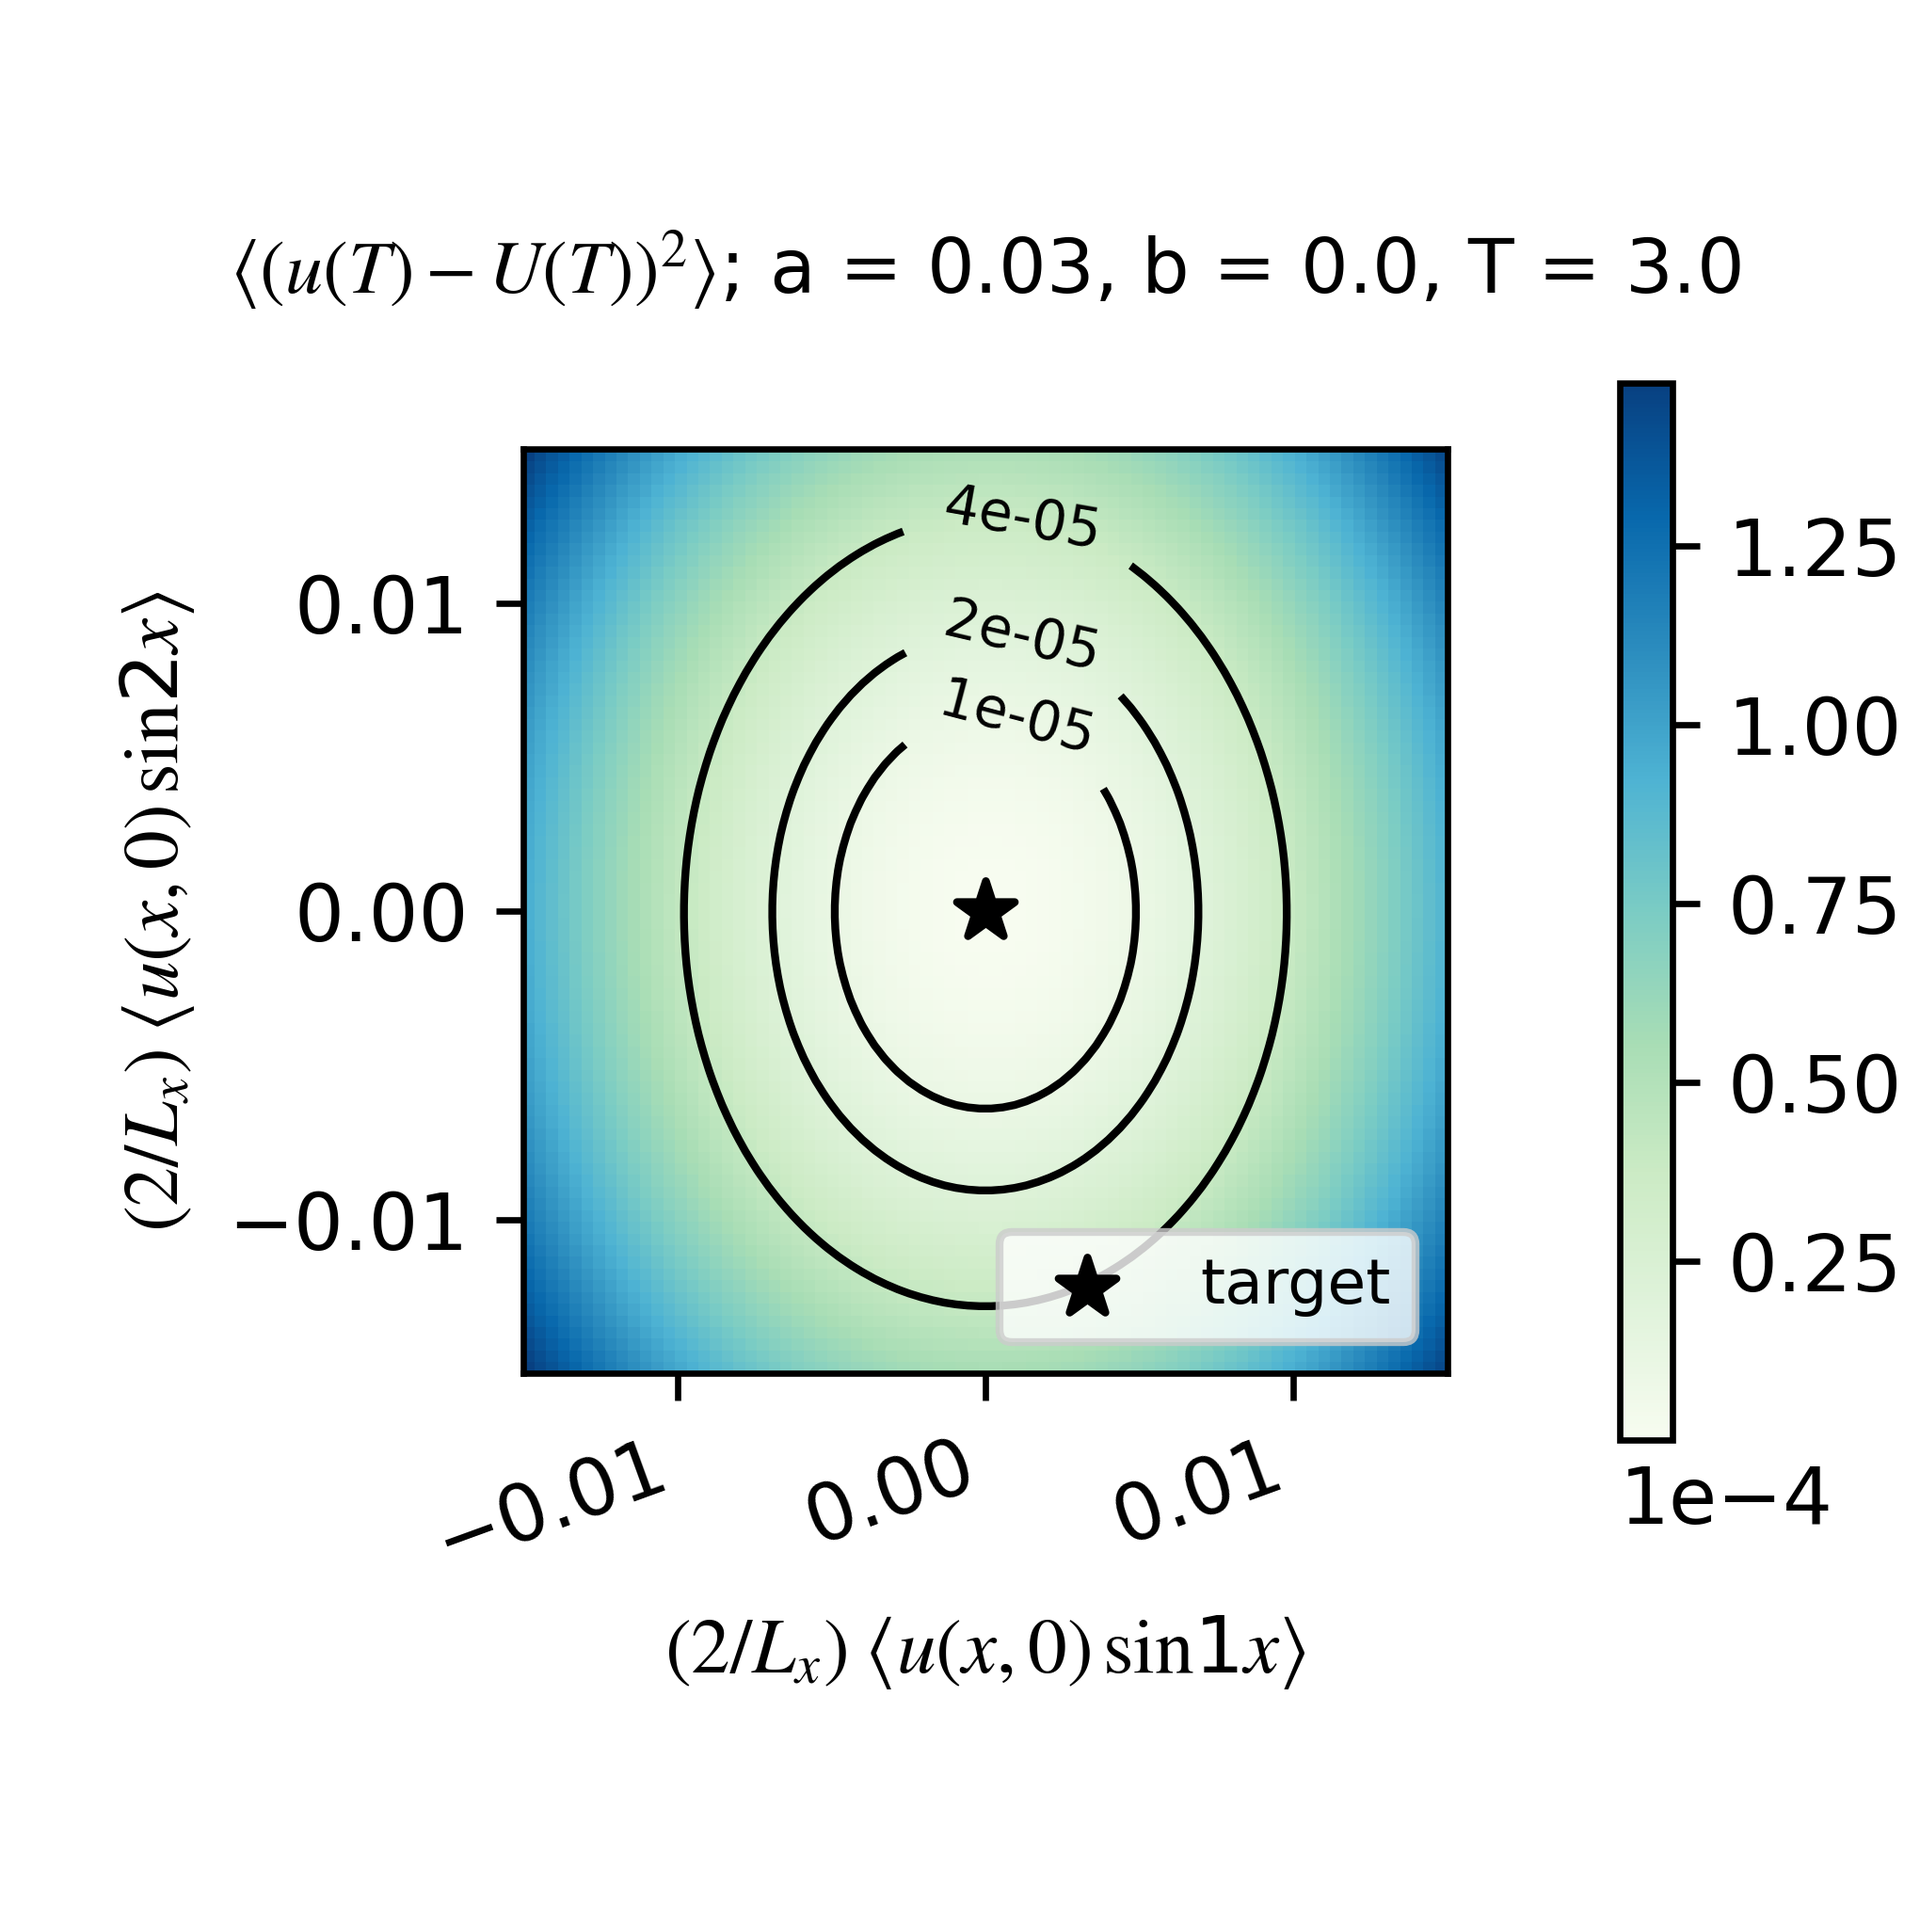
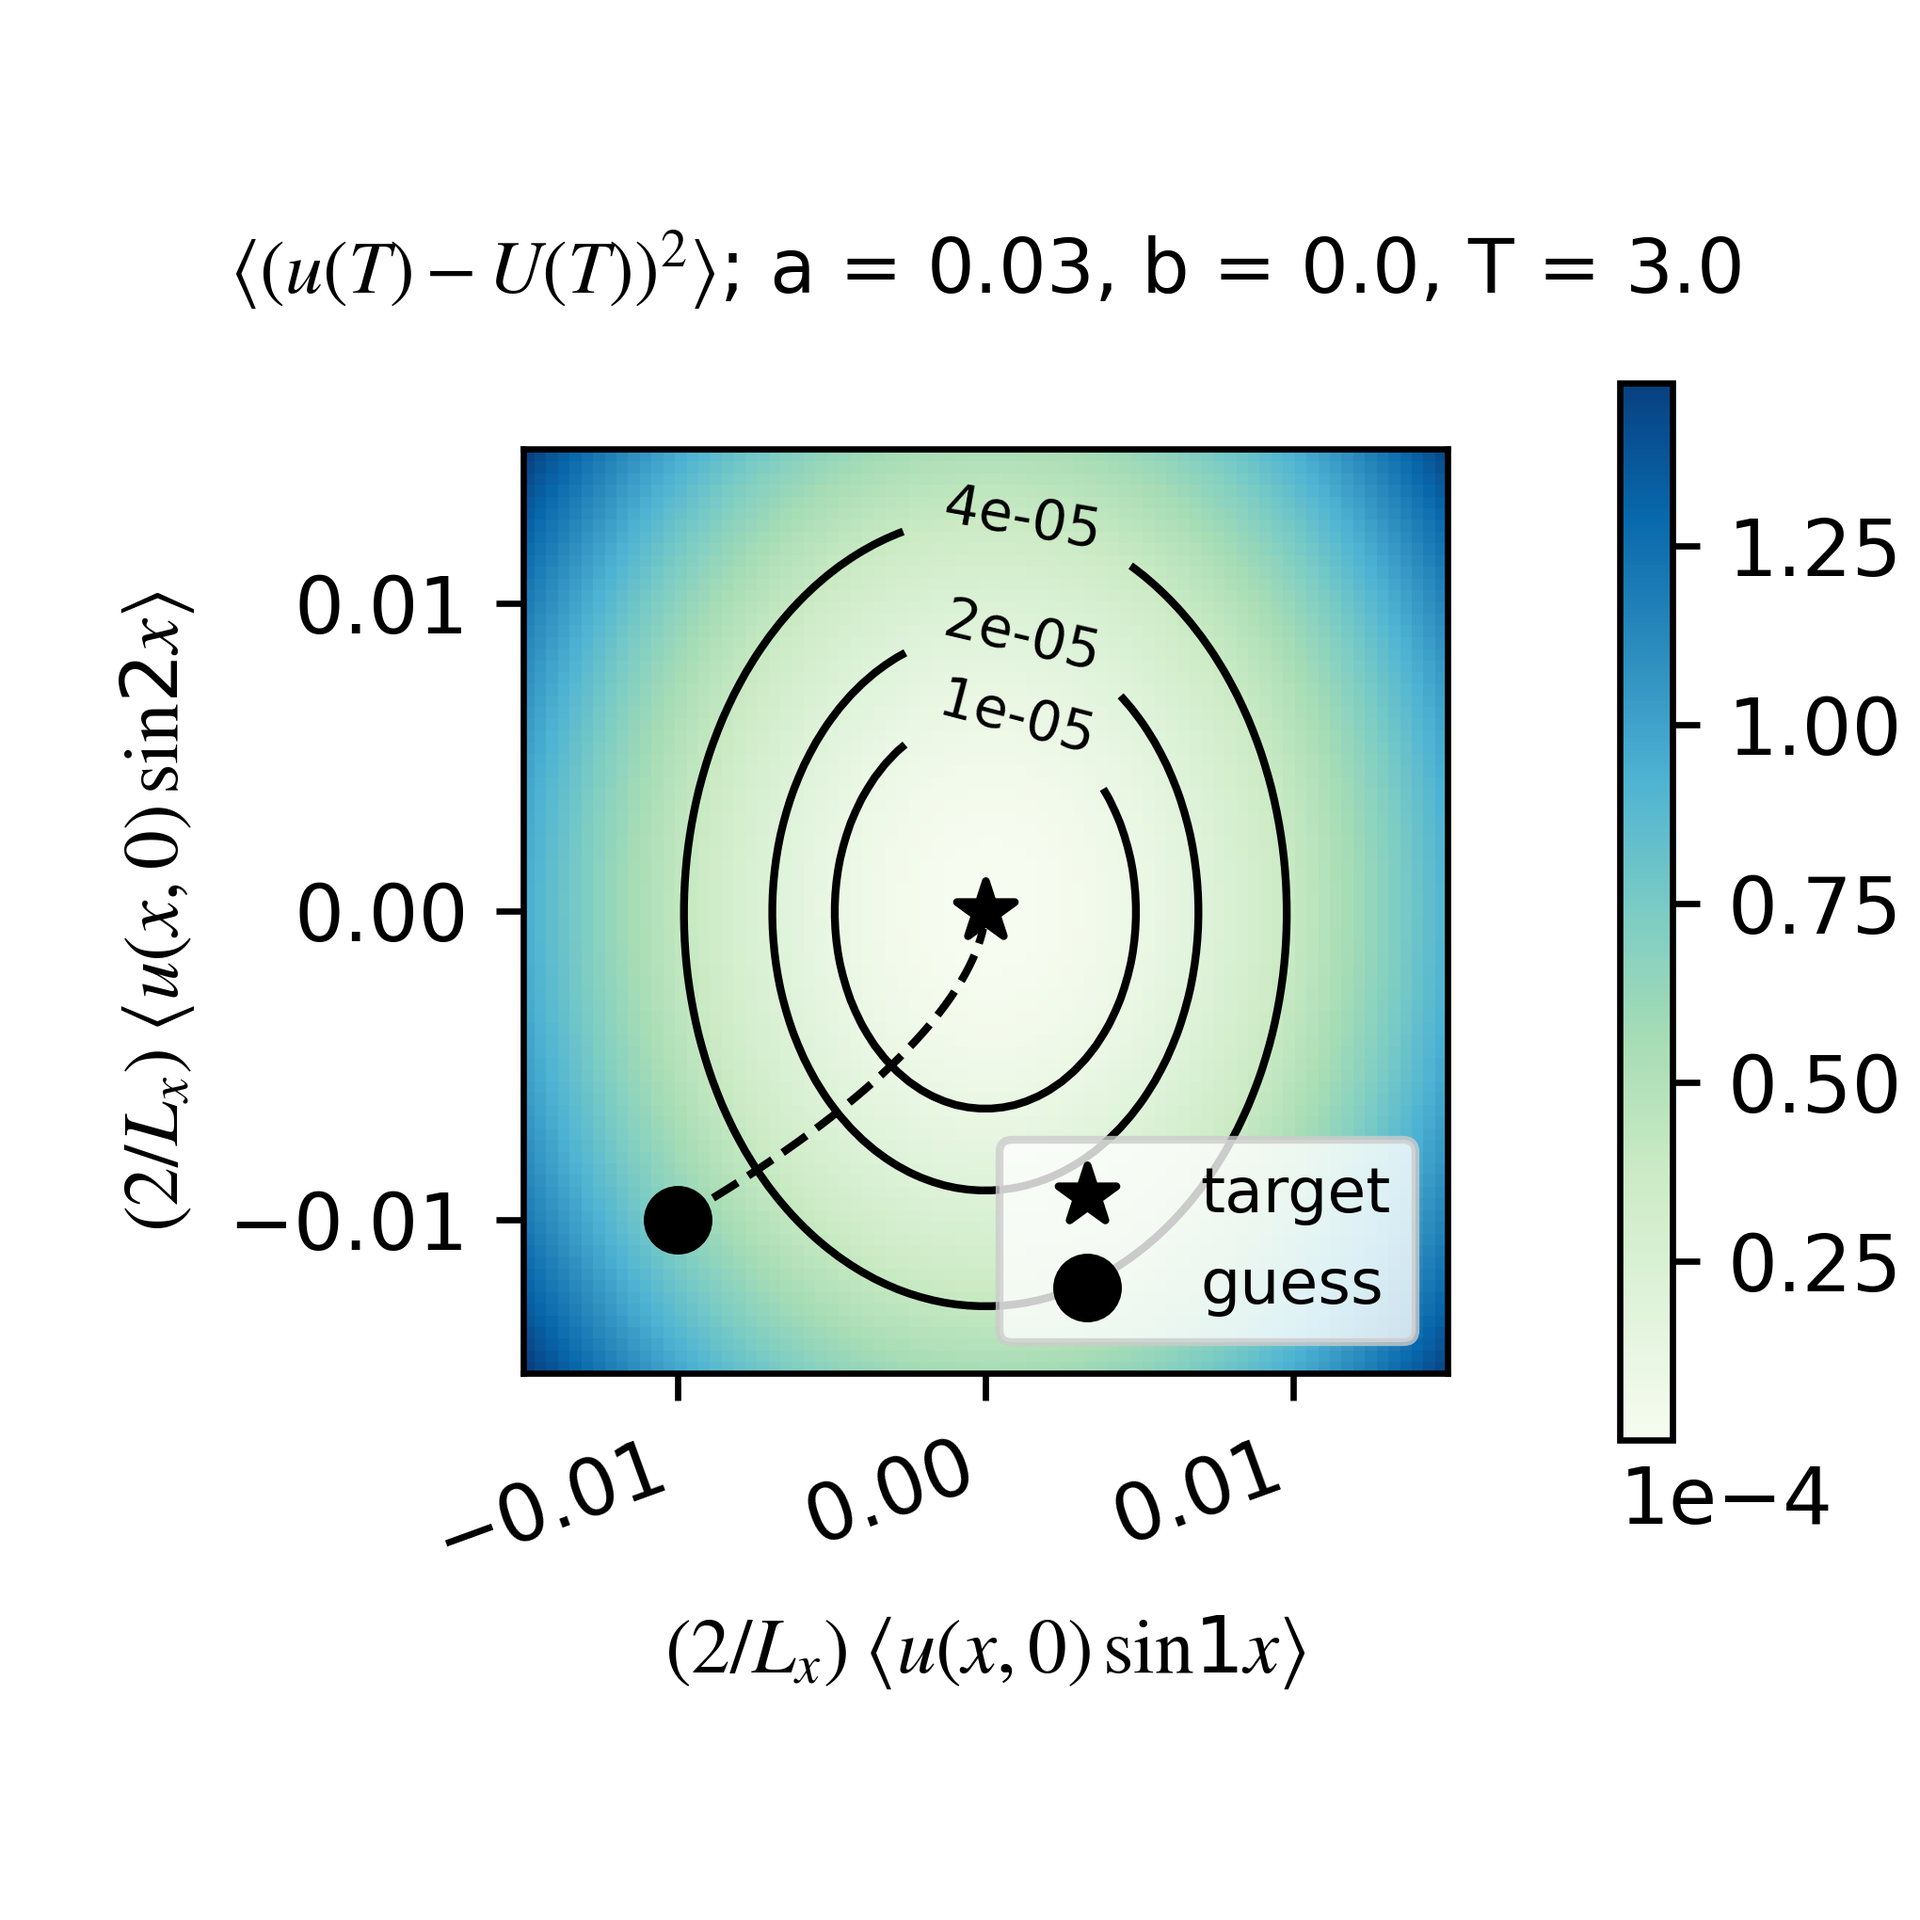
diffusion path

diff --git a/adjop/lsrtm/twomodes.py b/adjop/lsrtm/twomodes.py
@@ -233,29 +233,38 @@ if (not write_objectives or both):
         plt.scatter([target_coeffs[0]], [target_coeffs[1]], s=60, marker='*', color='k', label = 'target')
         cont = plt.contour(k1_coeffs.ravel(), k2_coeffs.ravel(), objectives.T, levels=[0.00001, 0.00002, 0.00004], colors=['k', 'k'])
         plt.clabel(cont, cont.levels, inline=True, fmt=fmt, fontsize=7)
-        plt.legend(loc='lower right')
         epsilon = 1.0
         if plot_paths:
             grad_ar = np.gradient(objectives)
             from scipy import interpolate
             k1k1, k2k2 = np.meshgrid(k1_coeffs, k2_coeffs)
-            gradinterp1 = interpolate.interp2d(k1k1, k2k2, grad_ar[0], kind='cubic')
-            gradinterp2 = interpolate.interp2d(k1k1, k2k2, grad_ar[1], kind='cubic')
+            stride = 10
+            gradinterp1 = interpolate.interp2d(k1k1[::stride, ::stride], k2k2[::stride, ::stride], grad_ar[0][::stride, ::stride].T, kind='linear')
+            gradinterp2 = interpolate.interp2d(k1k1[::stride, ::stride], k2k2[::stride, ::stride], grad_ar[1][::stride, ::stride].T, kind='linear')
             
-            sdpath = [(k1_coeffs[0], k2_coeffs[0])]
-            eps = 0.001
-            for stp in range(1000):
-                print(stp)
+            sdpath = [(-0.01, -0.01)]
+            plt.scatter([sdpath[-1][0]], [sdpath[-1][1]], s=60, marker='o', color='k', label = 'guess')
+
+            eps = 0.000005
+            stp = 0
+            # for stp in range(100):
+            while (stp < 10000 and sdpath[-1][0]**2 + sdpath[-1][0]**2 > 1e-8):
                 lastpt = sdpath[-1]
                 grad1 = gradinterp1(lastpt[0], lastpt[1])
                 grad2 = gradinterp2(lastpt[0], lastpt[1])
-                sdpath.append((lastpt[0] + eps*grad1, lastpt[1] + eps*grad2))
-            print(sdpath)
+                grad_mag = (grad1**2 + grad2**2)**0.5
+                grad1 /= grad_mag
+                grad2 /= grad_mag
+                print('step {}, pt {}, grad1 {}, grad2 {}'.format(stp, lastpt, grad1, grad2))
+                sdpath.append(((lastpt[0] - eps*grad1)[0], (lastpt[1] - eps*grad2)[0]))
+                stp += 1
+            
             uzpath = list(zip(*sdpath))
             k1path = uzpath[0]
             k2path = uzpath[1]
-            plt.plot(k1path, k2path, linstyle='--', color='k')
-            sys.exit()
+            plt.plot(k1path, k2path, linestyle='--', color='k')
+            # sys.exit()
+        plt.legend(loc='lower right')
         if False:
             for j in range(1):
                 g1 = -0.9
